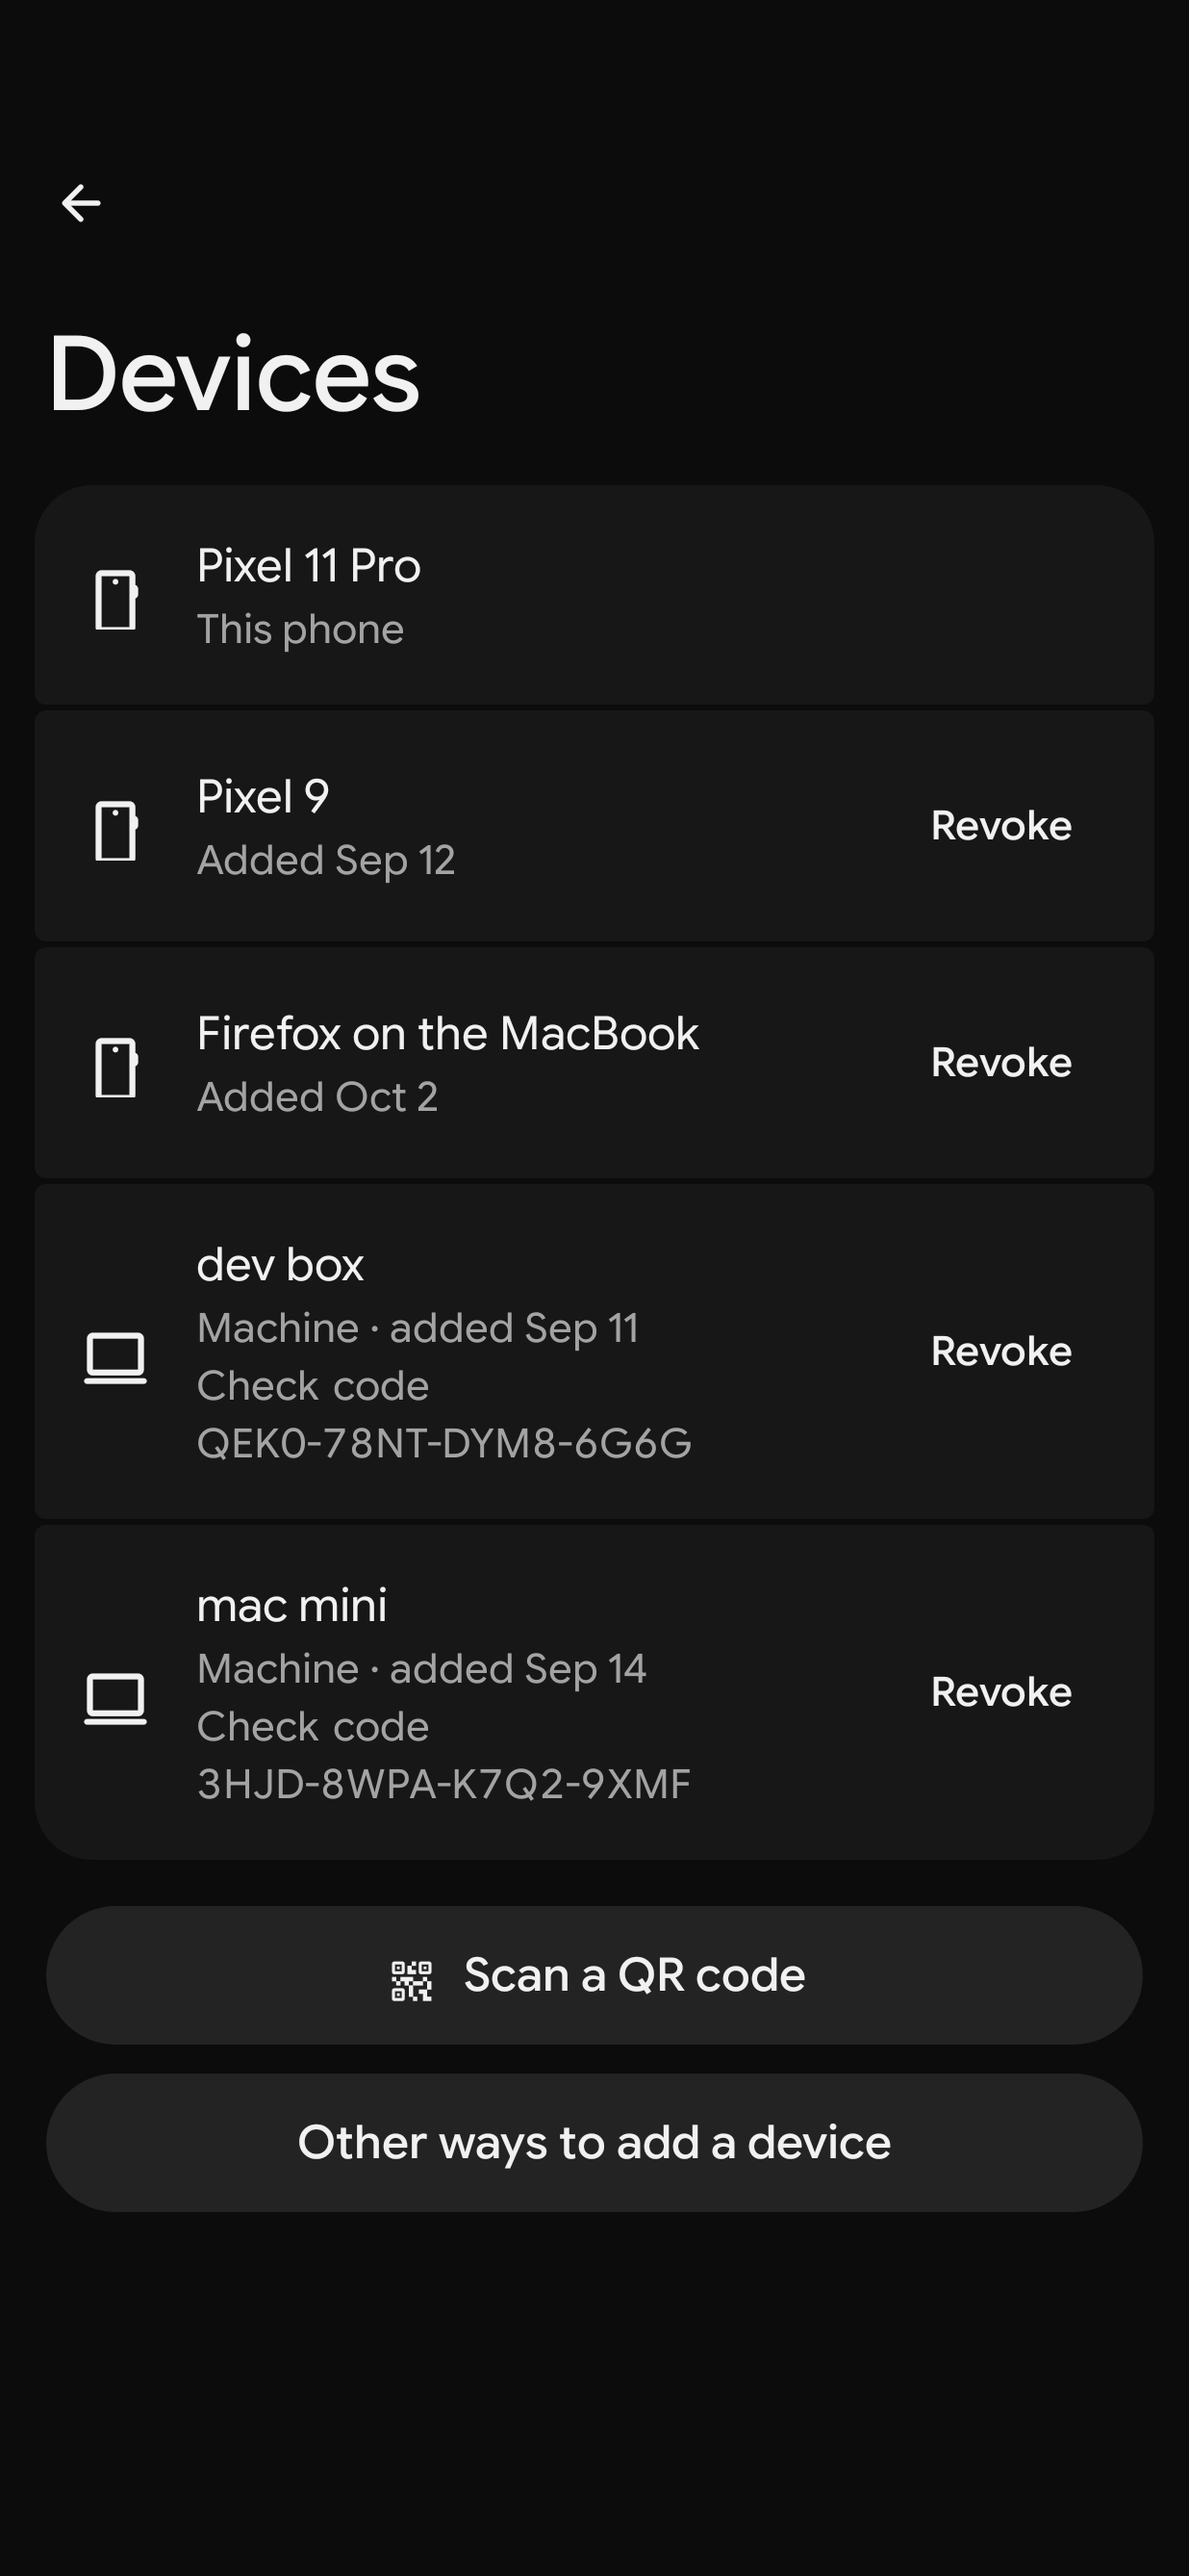
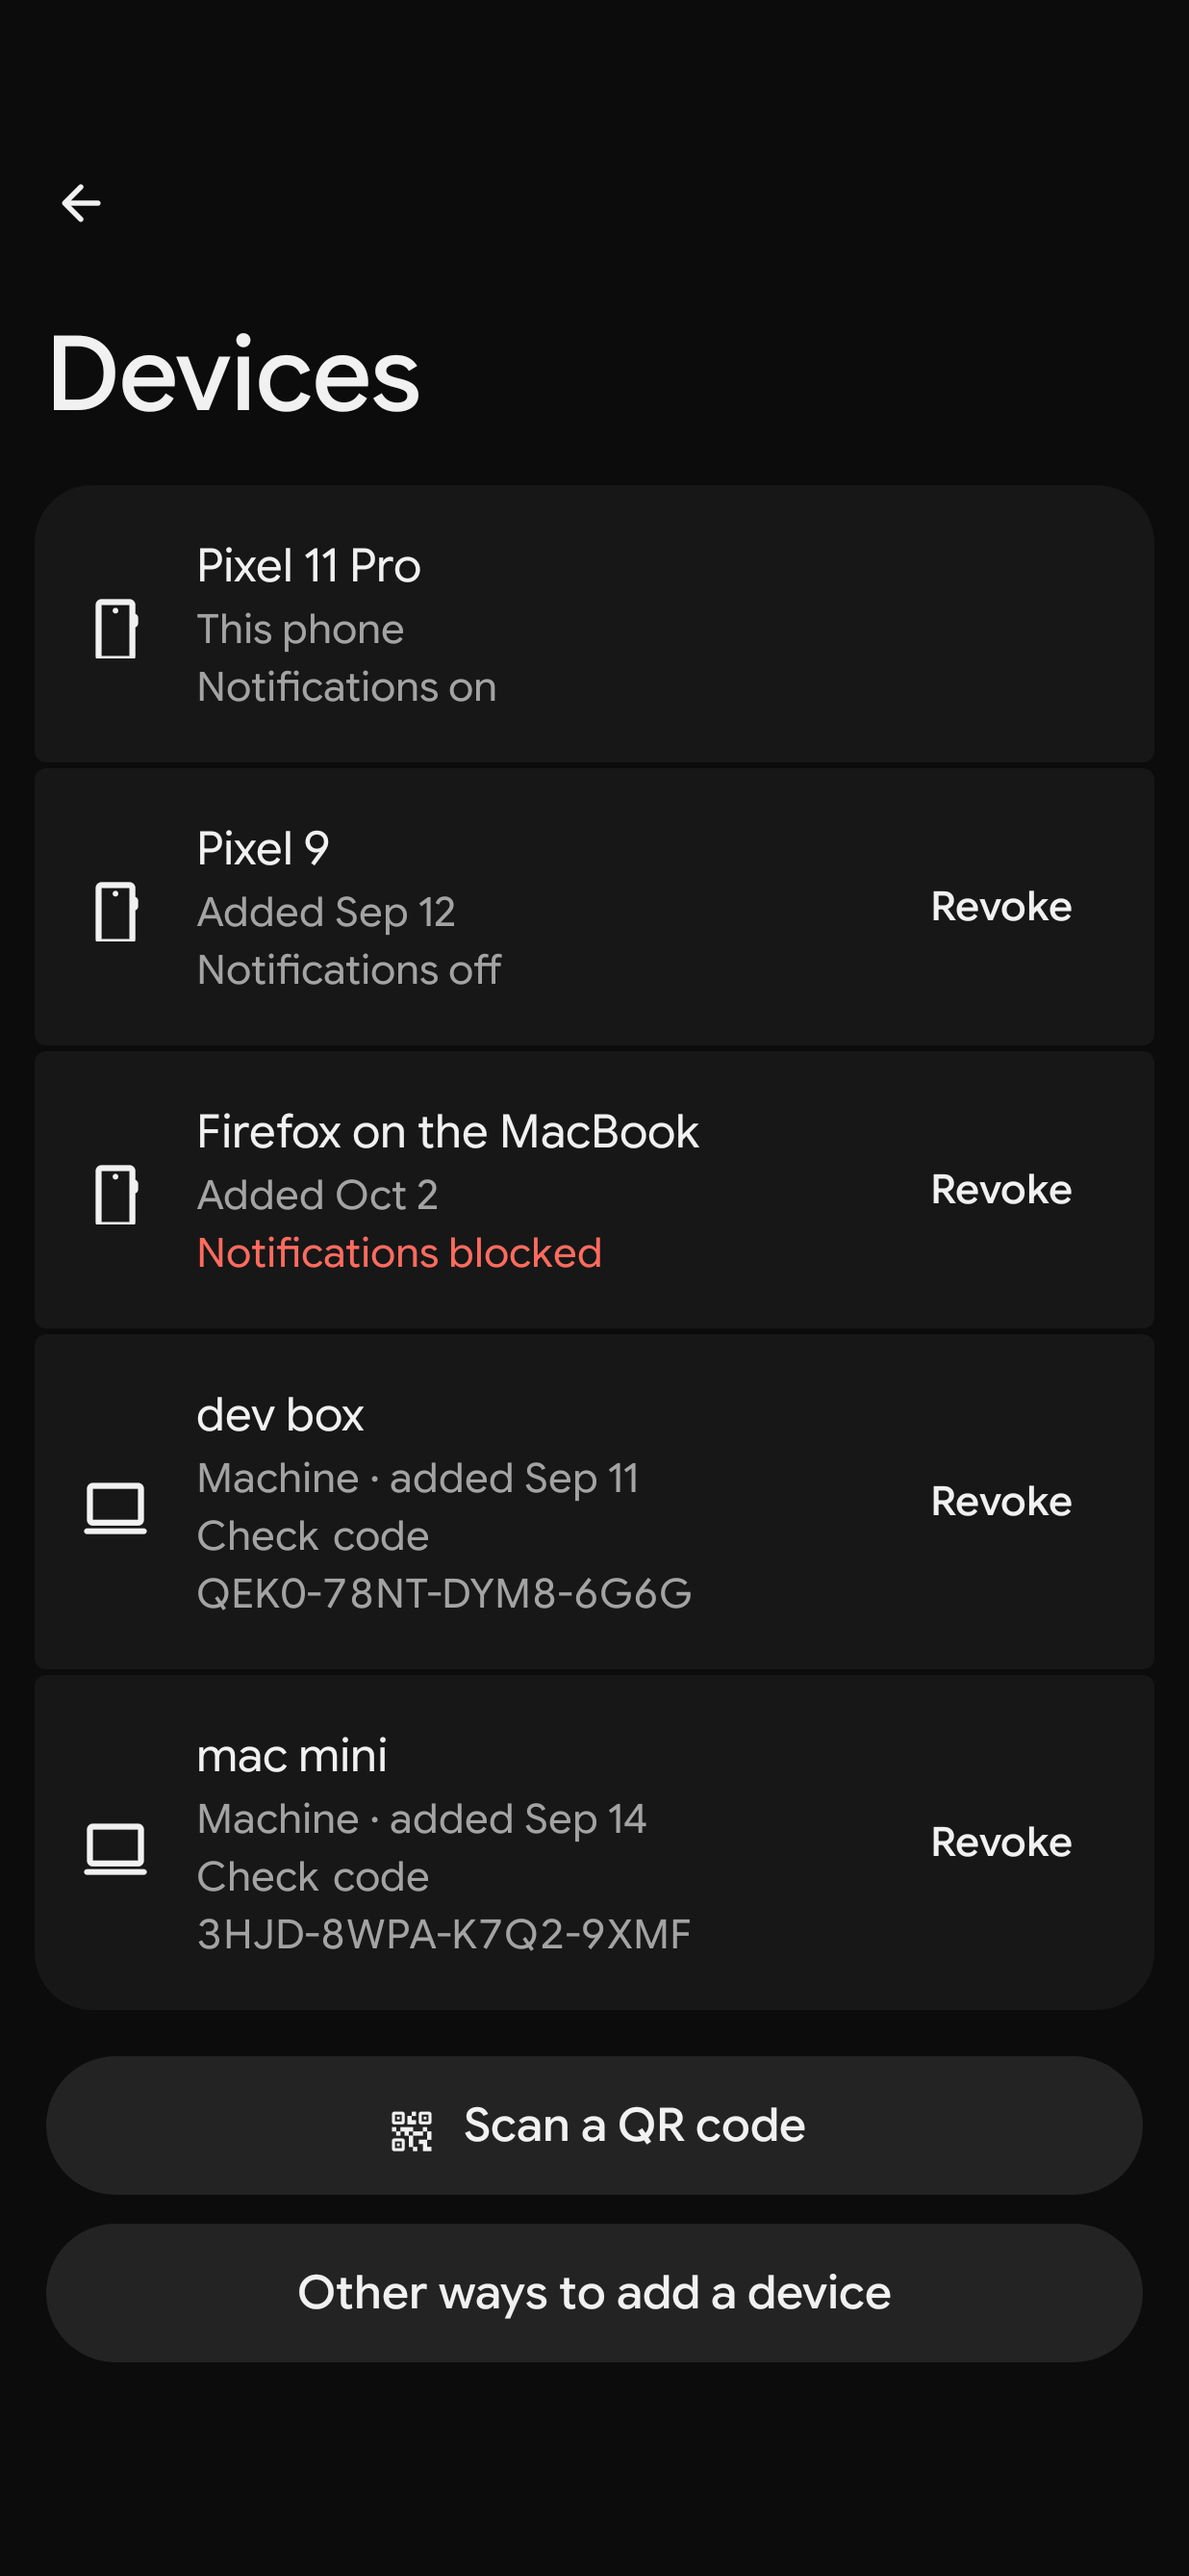
Android: report whether Android lets the phone notify, and show each device's state in Devices (#943)

diff --git a/android/app/src/main/kotlin/dev/starbridge/app/ui/devices/DevicesScreen.kt b/android/app/src/main/kotlin/dev/starbridge/app/ui/devices/DevicesScreen.kt
@@ -91,6 +91,9 @@ class DevicesViewModel @Inject constructor(private val store: Store) : ViewModel
     val busy = store.busy
     val recoveryActions = RecoveryActions(store::newRecoveryKey, store::saveRecoveryKey, store::closeRecoveryKey)
     fun refreshDirectory() = store.refreshDirectory()
+    val notifyStates = store.notifyStates
+    fun loadNotifyStates() = store.loadNotifyStates()
+    fun reportNotifications(on: Boolean) = store.reportNotifications(on)
     val actions = DeviceActions(store::lookUpPairing, store::approvePairing, store::closePairing, store::revoke, store::showCode)
 }
 
@@ -119,6 +122,8 @@ fun DevicesScreen(
     pollDirectory: () -> Unit = {},
     recovery: RecoveryUi? = null,
     onReplaceRecovery: () -> Unit = {},
+    /** What each device last said of its notifications (#943), by member id; only it changes them. */
+    notify: Map<String, String> = emptyMap(),
 ) {
     // A device or machine revoked elsewhere leaves the list without a restart: no push says so.
     LaunchedEffect(Unit) {
@@ -134,7 +139,7 @@ fun DevicesScreen(
     val twins = members.groupingBy { it.name }.eachCount().filterValues { it > 1 }.keys
     var revoking by rememberSaveable { mutableStateOf<String?>(null) }
     Page("Devices", modifier, onBack = onBack, titleGap = Spacing.s4) {
-        itemsIndexed(rows, key = { _, it -> it.id }) { i, it -> MemberRow(it, it.name in twins, groupShape(i, rows.size, outer = Spacing.s5)) { revoking = it.id } }
+        itemsIndexed(rows, key = { _, it -> it.id }) { i, it -> MemberRow(it, it.name in twins, groupShape(i, rows.size, outer = Spacing.s5), notify[it.id]) { revoking = it.id } }
         if (recovery != null) item(key = "recovery") { RecoveryRow(recovery, onReplaceRecovery) }
         item {
             FilledTonalButton(
@@ -287,9 +292,11 @@ fun PairCard(approval: Approval, actions: DeviceActions, otherWays: @Composable 
     }
 }
 
+private val NOTIFY_LABELS = mapOf("on" to "Notifications on", "off" to "Notifications off", "blocked" to "Notifications blocked")
+
 /** A member: its kind's icon, name and when it joined; Revoke is a neutral text button. */
 @Composable
-private fun MemberRow(member: Member, twin: Boolean, shape: Shape, onRevoke: () -> Unit) {
+private fun MemberRow(member: Member, twin: Boolean, shape: Shape, notify: String?, onRevoke: () -> Unit) {
     val scheme = MaterialTheme.colorScheme
     Surface(Modifier.fillMaxWidth(), shape = shape, color = scheme.surfaceContainer) {
         Row(Modifier.padding(Spacing.s4), verticalAlignment = Alignment.CenterVertically) {
@@ -310,6 +317,9 @@ private fun MemberRow(member: Member, twin: Boolean, shape: Shape, onRevoke: () 
                 )
                 member.check?.let {
                     Text("Check code $it", style = StarbridgeTheme.type.machine, color = scheme.onSurfaceVariant)
+                }
+                NOTIFY_LABELS[notify]?.let {
+                    Text(it, style = StarbridgeTheme.type.small, color = if (notify == "blocked") scheme.error else scheme.onSurfaceVariant)
                 }
             }
             if (!member.current) {

diff --git a/android/app/src/main/kotlin/dev/starbridge/app/ui/Root.kt b/android/app/src/main/kotlin/dev/starbridge/app/ui/Root.kt
@@ -213,6 +213,9 @@ fun Main(decisions: List<Decision>, notice: StateFlow<String?>, dismiss: () -> U
     val host = Notices(notice, dismiss, stopWaiting, connection)
     val sheets = remember { BottomSheetSceneStrategy<NavKey>() }
     val notificationsOff = !rememberNotificationsOn()
+    // Other devices' Devices lists show whether Android lets this phone notify (#943).
+    val devices: DevicesViewModel = hiltViewModel()
+    LaunchedEffect(notificationsOff) { devices.reportNotifications(!notificationsOff) }
     val colors = StarbridgeTheme.colors
     // A notification's tap: its question's or prompt's sheet, over the inbox. A pairing link:
     // Add a device, over Devices.
@@ -395,6 +398,8 @@ fun Main(decisions: List<Decision>, notice: StateFlow<String?>, dismiss: () -> U
                         val vm: DevicesViewModel = hiltViewModel()
                         val members by vm.members.collectAsStateWithLifecycle()
                         val recovery by vm.recovery.collectAsStateWithLifecycle()
+                        val notify by vm.notifyStates.collectAsStateWithLifecycle()
+                        LaunchedEffect(Unit) { vm.loadNotifyStates() }
                         DevicesScreen(
                             members, now, vm.actions,
                             onBack = { backStack.removeAt(backStack.lastIndex) },
@@ -403,6 +408,7 @@ fun Main(decisions: List<Decision>, notice: StateFlow<String?>, dismiss: () -> U
                             pollDirectory = vm::refreshDirectory,
                             recovery = recovery,
                             onReplaceRecovery = { backStack.add(RecoveryKeyKey) },
+                            notify = notify,
                         )
                     }
                     entry<RecoveryKeyKey> {

diff --git a/android/app/src/main/kotlin/dev/starbridge/app/data/ServerStore.kt b/android/app/src/main/kotlin/dev/starbridge/app/data/ServerStore.kt
@@ -1863,6 +1863,24 @@ class ServerStore(
         }
     }
 
+    override val notifyStates = MutableStateFlow<Map<String, String>>(emptyMap())
+    /** The state the server holds for this phone, once it took one. */
+    private var reportedNotify: Boolean? = null
+
+    override fun loadNotifyStates() {
+        scope.launch {
+            // A server without the route: Devices shows no states.
+            runCatching { api().notifications() }.onSuccess { notifyStates.value = it }
+        }
+    }
+
+    override fun reportNotifications(on: Boolean) {
+        scope.launch {
+            if (phase.value != Phase.Ready || reportedNotify == on) return@launch
+            runCatching { api().setNotifications(if (on) "on" else "off") }.onSuccess { reportedNotify = on }
+        }
+    }
+
     override fun setPushHold(seconds: Int) {
         val was = pushHold.value
         pushHold.value = seconds

diff --git a/android/app/src/test/kotlin/dev/starbridge/app/ScreenshotTest.kt b/android/app/src/test/kotlin/dev/starbridge/app/ScreenshotTest.kt
@@ -331,7 +331,8 @@ class ScreenshotTest(private val dark: Boolean) {
     @Test fun quotasStale() = capture("quotas-stale") { QuotasScreen(fake.staleWindows, now) }
     @Test fun quotasFailed() = capture("quotas-failed") { QuotasScreen(fake.failedWindows, now, failures = fake.failures) }
 
-    @Test fun devices() = capture("devices") { Phone(null, 0) { DevicesScreen(fake.members, now, deviceActions) } }
+    // Each device's notifications as it last said (#943): read-only, since only a device changes its own.
+    @Test fun devices() = capture("devices") { Phone(null, 0) { DevicesScreen(fake.members, now, deviceActions, notify = mapOf("m1" to "on", "m2" to "off", "m3" to "blocked")) } }
 
     // The recovery key under the members (#348): when and where it was set, with Replace.
     private val recovery = RecoveryUi(now.minusSeconds(86_400 * 2), "this phone", replaced = false)

diff --git a/android/app/src/main/kotlin/dev/starbridge/app/data/Api.kt b/android/app/src/main/kotlin/dev/starbridge/app/data/Api.kt
@@ -298,4 +298,13 @@ class Api(private val http: OkHttpClient, private val server: String, private va
 
     suspend fun setPushHold(seconds: Int): Int =
         call("PUT", "/settings", buildJsonObject { put("pushHold", seconds) }).second!!.jsonObject.getValue("pushHold").jsonPrimitive.int
+
+    /** This phone's notifications as Android reports them, for every device's Devices list (#943). */
+    suspend fun setNotifications(state: String) {
+        call("PUT", "/notifications", buildJsonObject { put("state", state) })
+    }
+
+    /** What each device of the account last said of its notifications, by member id (#943). */
+    suspend fun notifications(): Map<String, String> =
+        call("GET", "/notifications").second!!.jsonObject.getValue("devices").jsonObject.mapValues { it.value.jsonPrimitive.content }
 }

diff --git a/android/app/src/main/kotlin/dev/starbridge/app/data/Store.kt b/android/app/src/main/kotlin/dev/starbridge/app/data/Store.kt
@@ -101,6 +101,11 @@ interface Store {
     val pushHold: StateFlow<Int?> get() = MutableStateFlow(null)
     fun loadPushHold() {}
     fun setPushHold(seconds: Int) {}
+    /** What each device last said of its notifications (#943), once read. */
+    val notifyStates: StateFlow<Map<String, String>> get() = MutableStateFlow(emptyMap())
+    fun loadNotifyStates() {}
+    /** Tells the server whether Android shows this app's notifications; only on a change. */
+    fun reportNotifications(on: Boolean) {}
 
     /** Keeps [joinAsks] current while the app is in front. */
     fun watchJoins(on: Boolean)
